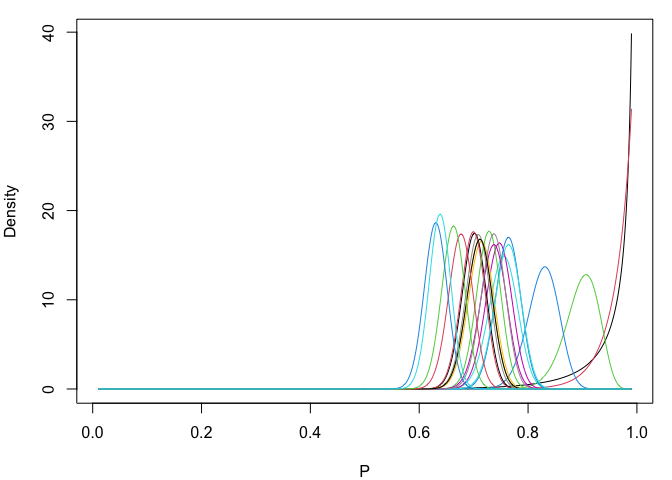
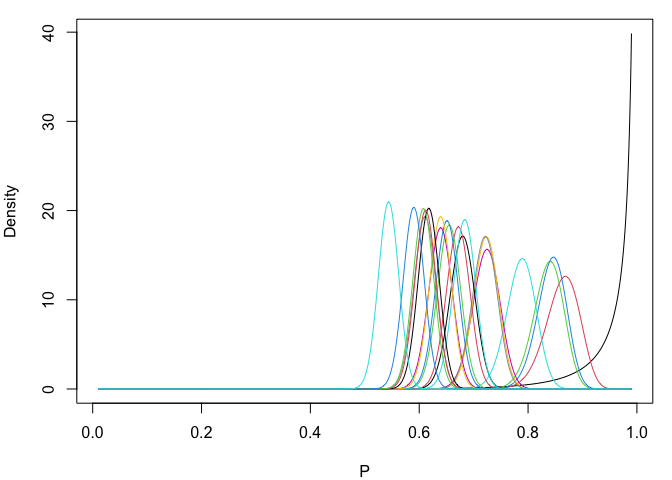
Adding description of how new climbers inherit beta and athleticism

Changed region(s): [[0.5312, 0.4375, 0.9062, 0.8125]]

diff --git a/README.md b/README.md
@@ -177,9 +177,9 @@ beta
 ref_times
 ```
 
-    ##  [1] 0.8548070 0.9360130 0.9535056 0.7700459 0.9713559 1.0300125 0.8547929
-    ##  [8] 0.9037143 0.9668870 0.9482864 0.9753341 0.9218185 1.0021346 0.8701689
-    ## [15] 0.8965266 0.8413457 1.0854928 0.9162729 0.9662464 0.9242109
+    ##  [1] 0.9641434 0.9046872 0.9516921 0.9903176 0.7281749 0.7279846 0.9922286
+    ##  [8] 0.9368182 0.7314282 0.8235588 0.9658065 0.7373008 1.0202630 0.8934016
+    ## [15] 0.9518878 0.8365827 0.9235830 0.8164345 0.7016657 0.8845892
 
 In each timestep, each climber has the same `innov_prob` probability of
 innovation. Innovations are changes to the beta of the route, in this
@@ -220,7 +220,10 @@ the current best as well as how long they’ve been in the sport, so older
 climbers with slower times are more likely to leave. Specifically it is
 their `current_record` divided by the minimum `current_record` in the
 population multiplied by `age`, or the number of timesteps that they
-have been in the sport. See `SpeedClimbingABM.R` for details.
+have been in the sport. Each new climber that enters the sport inherits
+information from two randomly sampled climbers from that timestep:
+`ref_times` and `beta` come from one, and `dist` comes from another. See
+`SpeedClimbingABM.R` for details.
 
 ## Test Run
 
